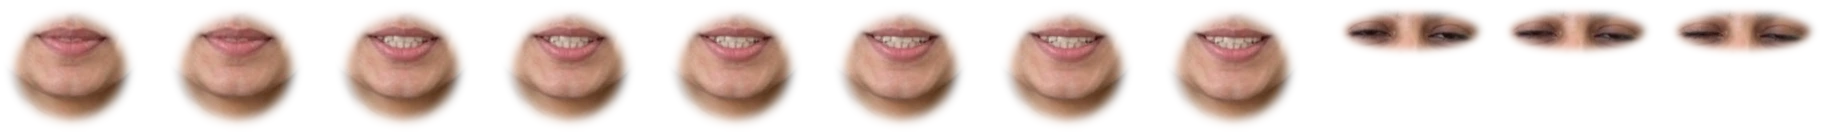
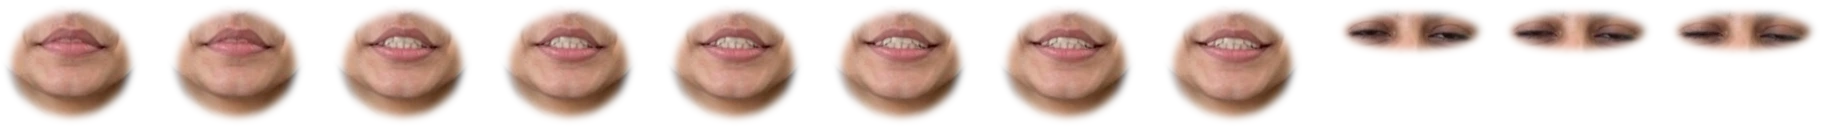
V1.13.1: neutral professional expression; head still while listening (blinks only)

diff --git a/www/js/ui/avatar.js b/www/js/ui/avatar.js
@@ -553,6 +553,7 @@ export class TalkingHead {
     this.env = 0;         // jaw-like smoothed voice loudness
     this.open = 0;        // mouth opening 0..1
     this.lastT = 0;
+    this._pauseAt = 0;
     this.frame = 0;       // current base-video frame
     this.blinks = 0;
     this.speechStart = 0;
@@ -597,8 +598,9 @@ export class TalkingHead {
       this.g = this.canvas.getContext('2d');
       this.video.src = src;
       await new Promise((res, rej) => { this.video.onloadeddata = res; this.video.onerror = rej; });
-      try { this.video.currentTime = Math.random() * Math.max(0, (this.video.duration || 0) - 1); } catch { /* fine */ }
-      await this.video.play().catch(() => {});
+      // Listening: head still (paused on a frame), only blinks. Speaking: natural head movement plays.
+      await new Promise((res) => { this.video.onseeked = res; try { this.video.currentTime = Math.random() * Math.max(0, (this.video.duration || 0) - 1); } catch { res(); } setTimeout(res, 1500); });
+      if (this.speaking) this.video.play().catch(() => {});
       const onFrame = (now, md) => { this.frame = Math.round(md.mediaTime * meta.fps) % meta.frames.length; this._vfc = this.video.requestVideoFrameCallback(onFrame); };
       if (this.video.requestVideoFrameCallback) this._vfc = this.video.requestVideoFrameCallback(onFrame);
       this.ready = true;
@@ -619,7 +621,8 @@ export class TalkingHead {
   _tick(t) {
     if (!this.wrap.isConnected) { this._stop(); return; }
     const m = this.meta, g = this.g;
-    if (!this.video.requestVideoFrameCallback) this.frame = Math.round(this.video.currentTime * m.fps) % m.frames.length;
+    if (!this.video.requestVideoFrameCallback || this.video.paused) this.frame = Math.round(this.video.currentTime * m.fps) % m.frames.length;
+    if (!this.speaking && !this.video.paused && t > this._pauseAt) this.video.pause();   // she is listening again
     // mouth: jaw-like envelope of the voice -> opening -> blend of two neighbouring real frames
     const dt = Math.min(0.1, Math.max(0.001, (t - (this.lastT || t - 16)) / 1000));
     this.lastT = t;
@@ -659,10 +662,13 @@ export class TalkingHead {
 
   setExpression(name) { this.host.dataset.expression = name; }
   nod() {}
-  setState(s) { this.host.dataset.state = s; if (s !== 'speaking') this.speaking = false; }
-  startSpeech() { this.speaking = true; this.speechStart = performance.now(); this.host.dataset.state = 'speaking'; }
+  setState(s) { this.host.dataset.state = s; if (s !== 'speaking' && this.speaking) this.endSpeech(); }
+  startSpeech() {
+    this.speaking = true; this.speechStart = performance.now(); this.host.dataset.state = 'speaking';
+    if (this.ready && this.video.paused) this.video.play().catch(() => {});
+  }
   syncToChar() {}
-  endSpeech() { this.speaking = false; }
+  endSpeech() { this.speaking = false; this._pauseAt = performance.now() + 350; /* let the mouth close first */ }
   _stop() {
     cancelAnimationFrame(this._raf);
     if (this._vfc && this.video.cancelVideoFrameCallback) this.video.cancelVideoFrameCallback(this._vfc);

diff --git a/www/js/main.js b/www/js/main.js
@@ -1627,7 +1627,7 @@ function renderRevision({ role = null } = {}) {
 }
 
 // ---------------------------------------------------------------- boot
-window.__ip = { go, state, store, version: '1.13.0', speech, recordings, fast: FAST };
+window.__ip = { go, state, store, version: '1.13.1', speech, recordings, fast: FAST };
 document.addEventListener('visibilitychange', () => { if (document.hidden && state.screen !== 'room') speech.stopSpeaking(); });
 
 if ('serviceWorker' in navigator && location.protocol === 'https:' && !isNative()) {

diff --git a/www/sw.js b/www/sw.js
@@ -1,6 +1,6 @@
 // Offline cache for the web/PWA build. Bump VERSION when assets change.
 const CDN_CACHE = 'interviewpro-cdn-v1';
-const VERSION = 'interviewpro-v1.13.0';
+const VERSION = 'interviewpro-v1.13.1';
 const ASSETS = [
   './', './index.html', './manifest.webmanifest', './css/app.css',
   './js/main.js', './js/data/meta.js', './js/data/kp.js', './js/data/questions.js',

diff --git a/scripts/avatar/neutral-mouth.py b/scripts/avatar/neutral-mouth.py
@@ -1,0 +1,24 @@
+import cv2, numpy as np, json, sys
+F = '/tmp/claude-0/lp2/final'
+S = cv2.imread(f'{F}/face.png', cv2.IMREAD_UNCHANGED)
+meta = json.load(open(f'{F}/rig.json'))
+CW, CH = meta['cell']; MW, MH = meta['mouth']['box'][2:]
+DOWN = float(sys.argv[1]) if len(sys.argv) > 1 else 4.0; IN = 1.5; SIG = float(sys.argv[2]) if len(sys.argv) > 2 else 8.0
+corners = [(36, 35, +1), (104, 38, -1)]          # (x, y, inward direction) in patch coords
+yy, xx = np.mgrid[0:MH, 0:MW].astype(np.float32)
+dx = np.zeros_like(xx); dy = np.zeros_like(yy)
+for cx, cy, s in corners:
+    w = np.exp(-((xx - cx) ** 2 + (yy - (cy + DOWN * 0.5)) ** 2) / (2 * SIG ** 2))
+    dy += DOWN * w; dx += s * IN * w
+mapx, mapy = xx - dx, yy - dy
+out = S.copy()
+mk = np.zeros((MH, MW), np.float32); cv2.ellipse(mk, (MW // 2, 64), (58, 51), 0, 0, 360, 1, -1); mk = cv2.GaussianBlur(mk, (0, 0), 4)
+for k in meta['mouth']['ladder']:
+    cell = S[:MH, k * CW:k * CW + MW]
+    w_ = cv2.remap(cell, mapx, mapy, cv2.INTER_CUBIC, borderMode=cv2.BORDER_REFLECT)
+    w_[..., 3] = (mk * 255).astype(np.uint8)
+    out[:MH, k * CW:k * CW + MW] = w_
+cv2.imwrite(f'{F}/face-neutral.png', out)
+def flat(img): a = img[..., 3:4] / 255.0; return (img[..., :3] * a + 235 * (1 - a)).astype(np.uint8)
+row = lambda img: np.hstack([cv2.resize(flat(img[:MH, k * CW:k * CW + MW])[20:75, 15:125], (330, 165), interpolation=cv2.INTER_CUBIC) for k in (0, 3, 7)])
+cv2.imwrite('/tmp/claude-0/lp2/desmile.png', np.vstack([row(S), row(out)]))

diff --git a/README.md b/README.md
@@ -1,5 +1,9 @@
 # InterviewPro — V1.10
 
+## What's new in V1.13.1 – professional listening
+- **While listening, Ananya keeps a neutral, attentive face and only blinks.** Her head stays still; the natural head movement plays only while she speaks.
+- **No more constant smile.** Her mouth corners were lowered with a small, smooth warp on the real mouth frames (`scripts/avatar/neutral-mouth.py`), so her resting expression is neutral and her speaking expression is professional instead of grinning.
+
 ## What's new in V1.13 – smooth, natural lip sync
 - **No more vibrating lips.** V1.12 switched between mouth pictures taken from unrelated moments, which flickered. Now the mouth comes from one continuous real opening movement of Ananya's, and the app blends neighbouring frames (33 ms apart in the real movement), so the lips open and close smoothly with every syllable.
 - **Jaw-like timing.** The voice loudness is smoothed like a real jaw (opens fast, closes a little slower, about 4 syllable movements per second), tuned on real recordings of her voice. In a browser test with real speech, frame-to-frame change around the mouth halved and fast open/close flicker dropped from 5 to 2 per second, close to the natural head movement alone.

diff --git a/docs/interviewer-video.md b/docs/interviewer-video.md
@@ -34,3 +34,10 @@ voice. Blinks happen every 2.5 to 7 seconds and last about 0.2 s, sometimes as a
    `python3 scripts/avatar/build.py PORTRAIT.jpg an.json calm.mp4 talking.mp4 OUT/`.
 4. Encode `OUT/base.avi` to H.264 MP4 and VP9 WebM, copy the files to `www/img/interviewers/`, add
    them to `www/sw.js` and add `rig: { base, sprite, meta }` to the interviewer in `www/js/data/meta.js`.
+
+## Professional expression (V1.13.1)
+The portrait and all LivePortrait footage carry a soft smile. `scripts/avatar/neutral-mouth.py`
+lowers the two mouth corners of every mouth frame by about 9 px with a smooth Gaussian displacement
+(sigma 12 px), and widens the soft mask so the original raised corners of the base video never show
+through. While listening the base video is paused (head still) and only the blink frames are drawn;
+the head movement plays while she speaks.
